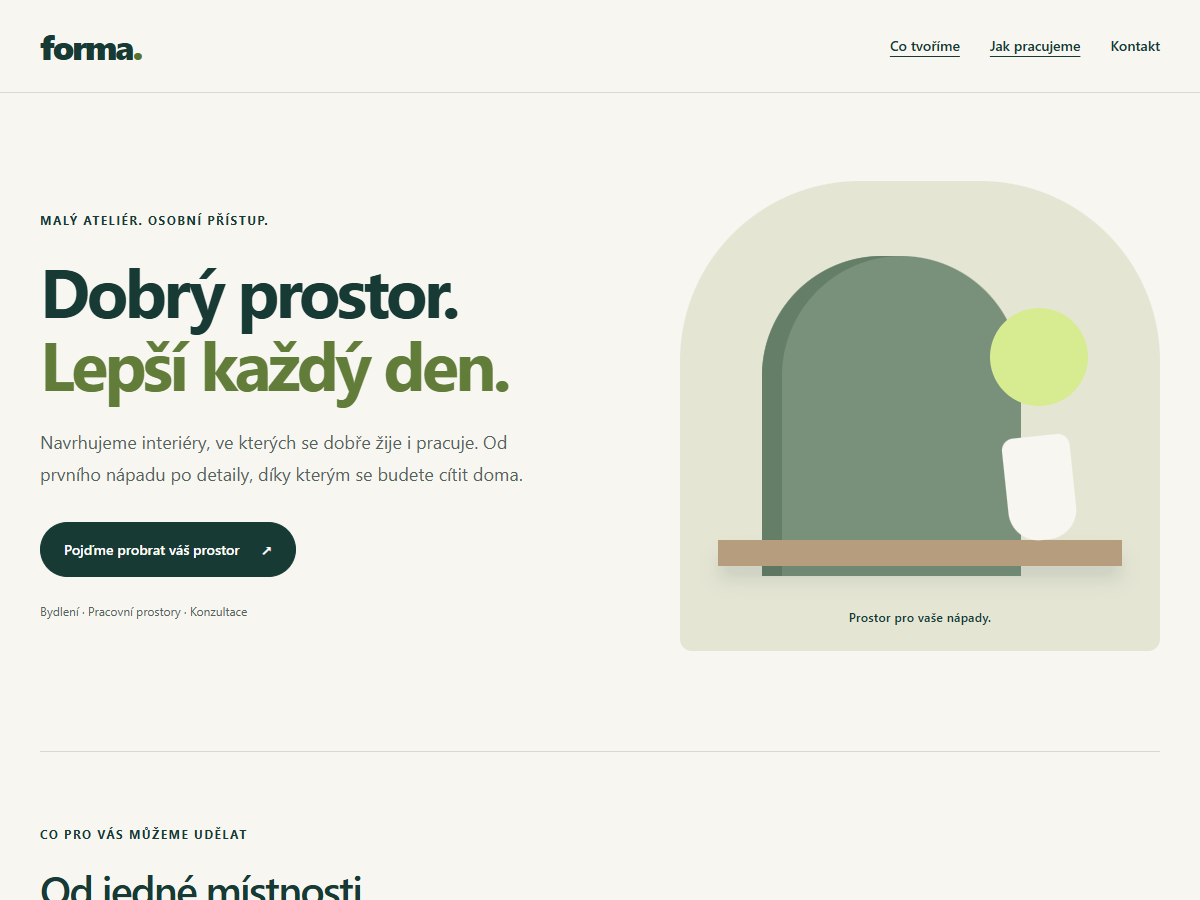
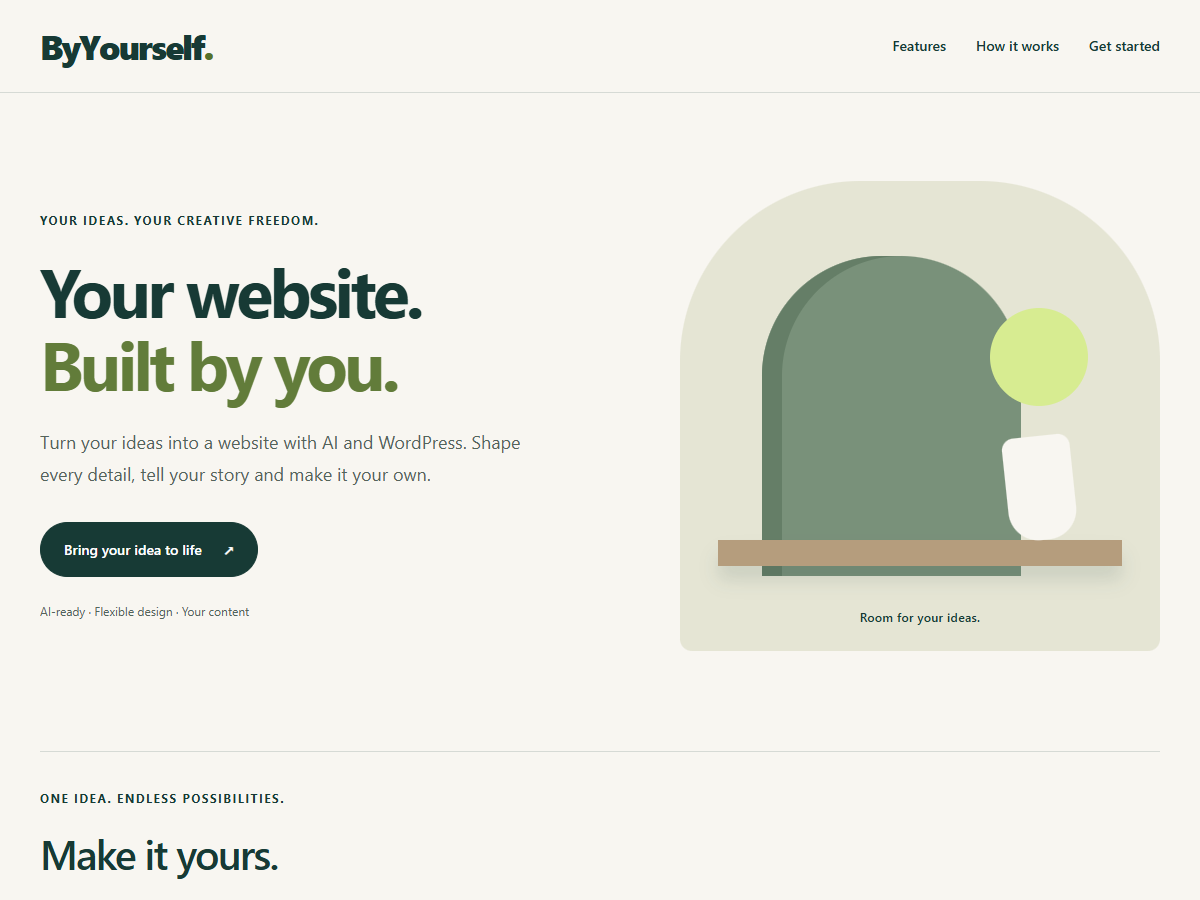
Use English preview artwork and sample class names in both languages (1.10.3)

diff --git a/plugin/ai-web-studio/assets/admin.js b/plugin/ai-web-studio/assets/admin.js
@@ -164,8 +164,8 @@
       var part = studio.dataset.aiwpKind !== 'page';
       var location = studio.dataset.aiwpKind === 'footer' ? 'footer' : 'primary';
       var sample = {
-        html: part ? wp.i18n.__("<div class=\"moje-cast\">\n  <a class=\"moje-cast__brand\" href=\"/\">Your website name</a>\n  <nav aria-label=\"Website navigation\">[aiwp_menu location=\"", "ai-web-studio") + location + '"]</nav>\n</div>' : wp.i18n.__("<section class=\"moje-stranka\">\n  <div class=\"moje-stranka__obsah\">\n    <p class=\"moje-stranka__stitky\">YOUR NEW BEGINNING</p>\n    <h1>Great ideas start with a first page.</h1>\n    <p>Tell visitors what you do and how you can help them. Replace this text with your own story.</p>\n    <a class=\"moje-stranka__tlacitko\" href=\"#vice\">Learn more <span aria-hidden=\"true\">↗</span></a>\n  </div>\n  <div id=\"vice\" class=\"moje-stranka__karty\">\n    <article><span>01</span><h2>Your story</h2><p>What led you to what you do today?</p></article>\n    <article><span>02</span><h2>Your services</h2><p>Describe the specific help you offer.</p></article>\n    <article><span>03</span><h2>The next step</h2><p>Tell visitors how to get in touch.</p></article>\n  </div>\n</section>", "ai-web-studio"),
-        css: part ? '.moje-cast { max-width: var(--aiwp-width, 1200px); margin: auto; padding: 24px; display: flex; align-items: center; justify-content: space-between; gap: 24px; flex-wrap: wrap; font-family: var(--aiwp-font, sans-serif); }\n.moje-cast a { color: inherit; text-decoration: none; }\n.moje-cast a:hover { text-decoration: underline; }\n.moje-cast a:focus-visible { outline: 3px solid var(--aiwp-accent, #2563eb); outline-offset: 5px; }\n.moje-cast__brand { font-size: 22px; font-weight: 750; }\n.moje-cast nav { display: flex; flex-wrap: wrap; gap: 24px; }' : '.moje-stranka { font-family: var(--aiwp-font, sans-serif); color: #1b2838; background: #f6f8fb; padding: clamp(32px, 7vw, 96px) 24px; }\n.moje-stranka * { box-sizing: border-box; }\n.moje-stranka__obsah, .moje-stranka__karty { max-width: var(--aiwp-width, 1200px); margin-inline: auto; }\n.moje-stranka__stitky { font-size: 12px; font-weight: 700; letter-spacing: .14em; color: #425570; }\n.moje-stranka h1 { font-size: clamp(34px, 5.5vw, 72px); line-height: 1.08; letter-spacing: -.045em; max-width: 850px; margin: 20px 0 24px; }\n.moje-stranka__obsah > p:not(.moje-stranka__stitky) { max-width: 600px; font-size: 19px; line-height: 1.7; color: #48576a; }\n.moje-stranka__tlacitko { display: inline-flex; gap: 20px; align-items: center; margin-top: 16px; padding: 15px 22px; color: #fff; background: #1d4ed8; border-radius: 8px; text-decoration: none; font-weight: 650; }\n.moje-stranka__tlacitko:hover { background: #1e40af; }\n.moje-stranka__tlacitko:focus-visible { outline: 3px solid #111827; outline-offset: 4px; }\n.moje-stranka__karty { display: grid; grid-template-columns: repeat(3, minmax(0, 1fr)); gap: 20px; margin-top: 64px; }\n.moje-stranka article { background: #fff; padding: 28px; border: 1px solid #e2e8f0; border-radius: 14px; }\n.moje-stranka article > span { color: #5b6b82; font-size: 13px; }\n.moje-stranka h2 { font-size: 22px; line-height: 1.3; margin: 24px 0 12px; }\n.moje-stranka article p { color: #48576a; line-height: 1.65; margin-bottom: 0; }\n@media (max-width: 700px) { .moje-stranka__karty { grid-template-columns: 1fr; margin-top: 40px; } }',
+        html: part ? wp.i18n.__("<div class=\"sample-part\">\n  <a class=\"sample-part__brand\" href=\"/\">Your website name</a>\n  <nav aria-label=\"Website navigation\">[aiwp_menu location=\"", "ai-web-studio") + location + '"]</nav>\n</div>' : wp.i18n.__("<section class=\"sample-page\">\n  <div class=\"sample-page__content\">\n    <p class=\"sample-page__eyebrow\">YOUR NEW BEGINNING</p>\n    <h1>Great ideas start with a first page.</h1>\n    <p>Tell visitors what you do and how you can help them. Replace this text with your own story.</p>\n    <a class=\"sample-page__button\" href=\"#sample-more\">Learn more <span aria-hidden=\"true\">↗</span></a>\n  </div>\n  <div id=\"sample-more\" class=\"sample-page__cards\">\n    <article><span>01</span><h2>Your story</h2><p>What led you to what you do today?</p></article>\n    <article><span>02</span><h2>Your services</h2><p>Describe the specific help you offer.</p></article>\n    <article><span>03</span><h2>The next step</h2><p>Tell visitors how to get in touch.</p></article>\n  </div>\n</section>", "ai-web-studio"),
+        css: part ? '.sample-part { max-width: var(--aiwp-width, 1200px); margin: auto; padding: 24px; display: flex; align-items: center; justify-content: space-between; gap: 24px; flex-wrap: wrap; font-family: var(--aiwp-font, sans-serif); }\n.sample-part a { color: inherit; text-decoration: none; }\n.sample-part a:hover { text-decoration: underline; }\n.sample-part a:focus-visible { outline: 3px solid var(--aiwp-accent, #2563eb); outline-offset: 5px; }\n.sample-part__brand { font-size: 22px; font-weight: 750; }\n.sample-part nav { display: flex; flex-wrap: wrap; gap: 24px; }' : '.sample-page { font-family: var(--aiwp-font, sans-serif); color: #1b2838; background: #f6f8fb; padding: clamp(32px, 7vw, 96px) 24px; }\n.sample-page * { box-sizing: border-box; }\n.sample-page__content, .sample-page__cards { max-width: var(--aiwp-width, 1200px); margin-inline: auto; }\n.sample-page__eyebrow { font-size: 12px; font-weight: 700; letter-spacing: .14em; color: #425570; }\n.sample-page h1 { font-size: clamp(34px, 5.5vw, 72px); line-height: 1.08; letter-spacing: -.045em; max-width: 850px; margin: 20px 0 24px; }\n.sample-page__content > p:not(.sample-page__eyebrow) { max-width: 600px; font-size: 19px; line-height: 1.7; color: #48576a; }\n.sample-page__button { display: inline-flex; gap: 20px; align-items: center; margin-top: 16px; padding: 15px 22px; color: #fff; background: #1d4ed8; border-radius: 8px; text-decoration: none; font-weight: 650; }\n.sample-page__button:hover { background: #1e40af; }\n.sample-page__button:focus-visible { outline: 3px solid #111827; outline-offset: 4px; }\n.sample-page__cards { display: grid; grid-template-columns: repeat(3, minmax(0, 1fr)); gap: 20px; margin-top: 64px; }\n.sample-page article { background: #fff; padding: 28px; border: 1px solid #e2e8f0; border-radius: 14px; }\n.sample-page article > span { color: #5b6b82; font-size: 13px; }\n.sample-page h2 { font-size: 22px; line-height: 1.3; margin: 24px 0 12px; }\n.sample-page article p { color: #48576a; line-height: 1.65; margin-bottom: 0; }\n@media (max-width: 700px) { .sample-page__cards { grid-template-columns: 1fr; margin-top: 40px; } }',
         js: ''
       };
       Object.keys(sample).forEach(function (key) {
@@ -176,7 +176,7 @@
       enabledField.checked = true;
       enabledField.dispatchEvent(new Event('change', { bubbles: true }));
       activateTab('html', false);
-      actionStatus.textContent = wp.i18n.__("The sample has been inserted and custom code is enabled. ", "ai-web-studio") + (part ? wp.i18n.__("Configure navigation in Appearance → Menus. ", "ai-web-studio") : 'Upravte texty a odkazy. ') + wp.i18n.__("Then click Update or Publish. Previewing alone does not save changes.", "ai-web-studio");
+      actionStatus.textContent = wp.i18n.__("The sample has been inserted and custom code is enabled. ", "ai-web-studio") + (part ? wp.i18n.__("Configure navigation in Appearance → Menus. ", "ai-web-studio") : wp.i18n.__("Edit the text and links. ", "ai-web-studio")) + wp.i18n.__("Then click Update or Publish. Previewing alone does not save changes.", "ai-web-studio");
     });
 
     function validationMessage(html, css, js) {

diff --git a/tools/theme-preview.html b/tools/theme-preview.html
@@ -1,0 +1,34 @@
+<!doctype html>
+<html lang="en">
+<head><meta charset="utf-8"><meta name="viewport" content="width=device-width, initial-scale=1"><title>ByYourself Theme</title></head>
+<body>
+  <header class="sample-site-header">
+    <div class="sample-site-header__inner">
+      <a class="sample-site-header__brand" href="#">ByYourself<span aria-hidden="true">.</span></a>
+      <nav class="sample-site-header__nav" aria-label="Main navigation">
+        <ul class="aiwp-menu"><li><a href="#features">Features</a></li><li><a href="#features">How it works</a></li><li><a href="#features">Get started</a></li></ul>
+      </nav>
+    </div>
+  </header>
+  <main class="sample-page">
+    <section class="sample-page__hero" aria-labelledby="preview-title">
+      <div class="sample-page__hero-copy">
+        <p class="sample-page__eyebrow">Your ideas. Your creative freedom.</p>
+        <h1 id="preview-title">Your website.<br><span>Built by you.</span></h1>
+        <p class="sample-page__lead">Turn your ideas into a website with AI and WordPress. Shape every detail, tell your story and make it your own.</p>
+        <a class="sample-page__button" href="#features">Bring your idea to life <span aria-hidden="true">↗</span></a>
+        <p class="sample-page__note">AI-ready · Flexible design · Your content</p>
+      </div>
+      <div class="sample-page__illustration" aria-hidden="true">
+        <div class="sample-page__arch"></div><div class="sample-page__sun"></div>
+        <div class="sample-page__shelf"></div><div class="sample-page__vase"></div>
+        <div class="sample-page__caption">Room for your ideas.</div>
+      </div>
+    </section>
+    <section class="sample-page__services" id="features">
+      <p class="sample-page__eyebrow">One idea. Endless possibilities.</p>
+      <h2>Make it yours.</h2>
+    </section>
+  </main>
+</body>
+</html>

diff --git a/theme/ai-web/style.css b/theme/ai-web/style.css
@@ -3,7 +3,7 @@ Theme Name: ByYourself Theme
 Theme URI: https://github.com/DanHutar/web-svepomoci
 Update URI: https://github.com/DanHutar/web-svepomoci
 Description: A lightweight theme for AI-created pages. Its companion plugin supports custom HTML, CSS, JavaScript, headers and footers.
-Version: 1.10.2
+Version: 1.10.3
 Requires at least: 6.4
 Requires PHP: 7.4
 Author: DanHutar

diff --git a/plugin/ai-web-studio/includes/class-aiwp-admin.php b/plugin/ai-web-studio/includes/class-aiwp-admin.php
@@ -102,7 +102,7 @@ final class AIWP_Admin {
 					<?php endforeach; ?>
 				</div>
 				<?php
-				$hints = array( 'html' => __( 'Insert only page content, such as sections, headings and paragraphs. No html, head, body, style or script tags. PHP is not supported.', 'ai-web-studio' ), 'css' => __( 'Insert CSS without <style> tags. Use your own classes, such as .moje-stranka, to avoid affecting other website elements.', 'ai-web-studio' ), 'js' => __( 'Optional. Insert JavaScript without <script> tags. For a simple page with text and images, this field can stay empty.', 'ai-web-studio' ) );
+				$hints = array( 'html' => __( 'Insert only page content, such as sections, headings and paragraphs. No html, head, body, style or script tags. PHP is not supported.', 'ai-web-studio' ), 'css' => __( 'Insert CSS without <style> tags. Use your own classes, such as .sample-page, to avoid affecting other website elements.', 'ai-web-studio' ), 'js' => __( 'Optional. Insert JavaScript without <script> tags. For a simple page with text and images, this field can stay empty.', 'ai-web-studio' ) );
 				foreach ( $hints as $key => $hint ) :
 					?>
 					<div class="aiwp-code-panel" id="aiwp-panel-<?php echo esc_attr( $key ); ?>" role="tabpanel" aria-labelledby="aiwp-tab-<?php echo esc_attr( $key ); ?>">

diff --git a/plugin/ai-web-studio/ai-web-studio.php b/plugin/ai-web-studio/ai-web-studio.php
@@ -4,7 +4,7 @@
  * Plugin URI: https://github.com/DanHutar/web-svepomoci
  * Update URI: https://github.com/DanHutar/web-svepomoci
  * Description: Per-page HTML, CSS and JavaScript, shared headers and footers, and essential SEO.
- * Version: 1.10.2
+ * Version: 1.10.3
  * Requires at least: 6.4
  * Requires PHP: 7.4
  * Author: DanHutar
@@ -14,7 +14,7 @@
  */
 
 defined( 'ABSPATH' ) || exit;
-define( 'AIWP_VERSION', '1.10.2' );
+define( 'AIWP_VERSION', '1.10.3' );
 define( 'AIWP_DIR', plugin_dir_path( __FILE__ ) );
 define( 'AIWP_URL', plugin_dir_url( __FILE__ ) );
 

diff --git a/RELEASE.md b/RELEASE.md
@@ -1,9 +1,9 @@
-# ByYourself 1.10.2
+# ByYourself 1.10.3
 
-Installation packages now use the product names: **byyourself-builder.zip** and **byyourself-theme.zip**.
+- The theme preview now uses English text and ByYourself branding: **Your website. Built by you.** The same image appears in both languages.
+- Newly inserted sample pages, headers and footers use English HTML/CSS class names in both interface languages, including sample-page, sample-page__content, sample-page__button and sample-part. The page anchor is sample-more.
+- The English sample-insertion message is fully translated. Czech content text remains Czech.
+- Existing saved page code is preserved. New class names apply when inserting a new sample; inserting a sample replaces the current editor code after confirmation.
+- Browser tests no longer overwrite the distributed theme preview with a Czech fixture. Its English HTML source and screenshot command are included in the repository.
 
-**One-time manual update required for installations on 1.10.1 or earlier.** Older versions look for the old ZIP filenames and will not discover this release. Upload both new ZIPs through WordPress and choose **Replace current with uploaded**. Do not delete the existing components first. Future releases can be updated normally after this migration.
-
-The ZIP roots remain ai-web-studio and ai-web, preserving component identity, saved content, settings and activation. The updater now uses the new filenames and a new release-cache key.
-
-Download the two installation attachments, not Source code (zip). See the [installation guide](https://github.com/DanHutar/web-svepomoci/blob/main/README.md#ruční-aktualizace).
+Update both components. Installations on 1.10.2 can update normally. On 1.10.1 or earlier, upload **byyourself-builder.zip** and **byyourself-theme.zip** manually once and choose **Replace current with uploaded**. Do not delete the existing components first.

diff --git a/README.md b/README.md
@@ -26,9 +26,9 @@ Při ruční instalaci zkopírujte `theme/ai-web` do `wp-content/themes/` a `plu
 1. Ve své testovací administraci otevřete **Pluginy → Přidat nový → Nahrát plugin** (podle překladu může jít o **Instalace pluginů**).
 2. Vyberte místní soubor `dist/byyourself-builder.zip`, nerozbalujte jej a klikněte na **Nainstalovat**.
 3. WordPress rozpozná již nainstalovaný plugin. Zvolte **Nahradit stávající nahraným** (*Replace current with uploaded*).
-4. V přehledu pluginů ověřte, že **ByYourself Builder** zůstává aktivní a uvádí verzi **1.10.2**.
+4. V přehledu pluginů ověřte, že **ByYourself Builder** zůstává aktivní a uvádí verzi **1.10.3**.
 
-Nahrazení aktualizuje soubory pluginu; uložené stránky, HTML, CSS, JS, SEO a revize zůstávají v databázi. Plugin předem nemažte. Stejně nahrajte `dist/byyourself-theme.zip` přes **Vzhled → Šablony → Instalovat šablonu → Nahrát šablonu** a potvrďte nahrazení. Obě součásti pak mají verzi **1.10.2**. Nový ZIP se na hosting sám neodešle; nahrajte jej uvedeným postupem.
+Nahrazení aktualizuje soubory pluginu; uložené stránky, HTML, CSS, JS, SEO a revize zůstávají v databázi. Plugin předem nemažte. Stejně nahrajte `dist/byyourself-theme.zip` přes **Vzhled → Šablony → Instalovat šablonu → Nahrát šablonu** a potvrďte nahrazení. Obě součásti pak mají verzi **1.10.3**. Nový ZIP se na hosting sám neodešle; nahrajte jej uvedeným postupem.
 
 Od verze 1.10.0 jsou rozhraní i prompty anglicky a česky. Nová instalace začíná anglicky, již nastavený web si zachová češtinu. Otevřete **ByYourself → Language / ByYourself → Jazyk** a nastavte samostatně rozhraní, veřejné popisky a požadovaný jazyk obsahu od AI. Uložené stránky se nepřekládají. [Návod v obou jazycích](docs/languages.md).
 
